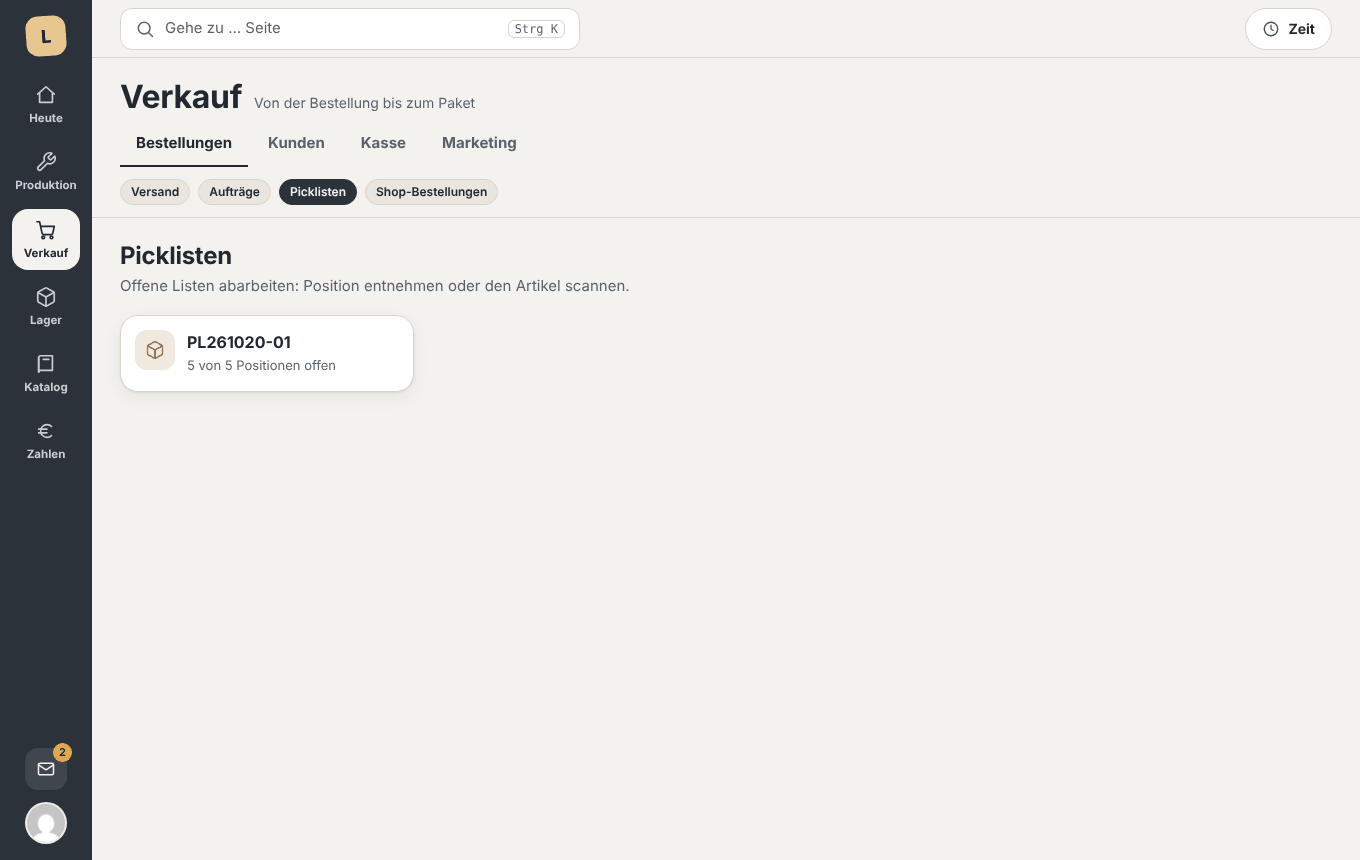
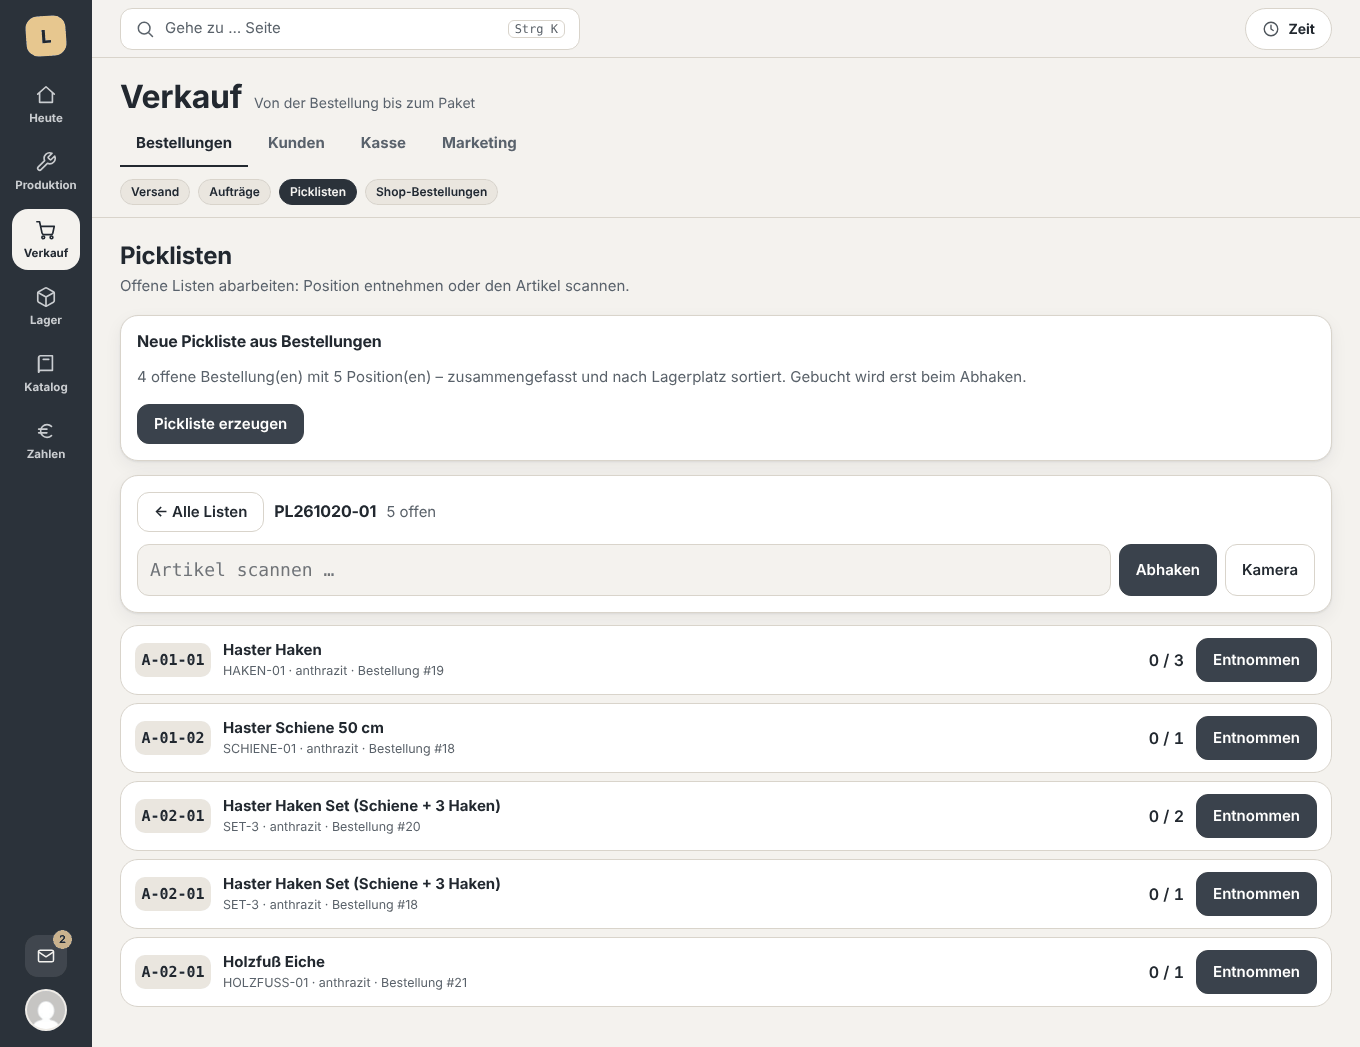
Picklisten im ERP erzeugen (0.31.0)
Die Seite Verkauf → Bestellungen → Picklisten erzeugt eine Pickliste aus den
offenen Bestellungen selbst, mit Vorschau (Bestellungen/Positionen) und
Rückfrage, wenn schon eine offene Liste existiert. Neue REST-Routen
erp/picklisten/bestellungen und erp/picklisten/erzeugen, Recht wie in der
klassischen Ansicht. Betriebsanleitung B.3 und Bilder angepasst.

Claude-Session: https://claude.ai/code/session_01Q6NocSdD6ubUUj1G5gPRYB

diff --git a/docs/betriebsanleitung.html b/docs/betriebsanleitung.html
@@ -13,10 +13,10 @@
 <div class="seite">
 
 <header class="kopf" id="einstieg">
-	<div class="marke">Lindenweg16 ERP · Version 0.30.0</div>
+	<div class="marke">Lindenweg16 ERP · Version 0.31.0</div>
 	<h1>Betriebsanleitung</h1>
 	<p class="unter">Eine Anleitung in vier Teilen – je einer für eine Aufgabe. Lies den Teil, der zu deiner Arbeit passt; die anderen musst du nicht gelesen haben.</p>
-	<div class="meta">Alle Bilder sind echte Bildschirmfotos der Oberfläche unter /erp, aufgenommen in einer Testinstallation mit Beispieldaten (Namen, Zahlen und Adressen sind erfunden). Stand: Plugin-Version 0.30.0.</div>
+	<div class="meta">Alle Bilder sind echte Bildschirmfotos der Oberfläche unter /erp, aufgenommen in einer Testinstallation mit Beispieldaten (Namen, Zahlen und Adressen sind erfunden). Stand: Plugin-Version 0.31.0.</div>
 	<nav class="wegweiser">
 		<a href="#einstieg" class="hier">Einstieg</a>
 		<a href="#teil-produktion">A · Produktion</a>
@@ -1095,7 +1095,7 @@
 <table>
 <thead><tr><th>#</th><th>Schritt</th><th>Wo</th><th>Ergebnis</th></tr></thead>
 <tbody>
-<tr><td>1</td><td>Pickliste erzeugen</td><td>Computer, <em>Lagerplätze &amp; Picklisten</em> (Klassische Ansicht)</td><td>Eine Liste, sortiert nach Lagerplatz</td></tr>
+<tr><td>1</td><td>Pickliste erzeugen</td><td>Computer, <em>Verkauf → Bestellungen → Picklisten</em></td><td>Eine Liste, sortiert nach Lagerplatz</td></tr>
 <tr><td>2</td><td>Picken</td><td>Handy oder Computer, <em>Verkauf → Bestellungen → Picklisten</em></td><td>Ware auf dem Packtisch, Bestand gebucht</td></tr>
 <tr><td>3</td><td>Packen</td><td>Packtisch</td><td>Karton mit Ware und Beipackzettel</td></tr>
 <tr><td>4</td><td>Lieferschein drucken</td><td>Computer, <em>Verkauf → Bestellungen → Versand</em></td><td>PDF, kommt ins Paket</td></tr>
@@ -1121,19 +1121,21 @@
 
 <h2 id="vers-pickliste"><span class="nr">B.3</span> Schritt 1: Pickliste erzeugen</h2>
 
-<p><span class="weg">Lager → Bestand → Lagerplätze &amp; Picklisten → Klassische Ansicht → Reiter „Picklisten“</span></p>
+<p><span class="weg">Verkauf → Bestellungen → Picklisten</span></p>
 
-<div class="kasten info">
-	<span class="titel">Dieser eine Schritt liegt noch in der klassischen Ansicht</span>
-	<p>Das <em>Abarbeiten</em> der Picklisten ist ins ERP umgezogen (Kapitel B.4). Das <em>Erzeugen</em> einer Pickliste aus den offenen Bestellungen geht noch auf der klassischen Seite. Klick dazu auf der Seite <em>Lagerplätze &amp; Picklisten</em> oben rechts auf <strong>Klassische Ansicht</strong>. Sie öffnet sich im WordPress-Verwaltungsbereich. Zurück ins ERP kommst du mit dem Zurück-Knopf des Browsers. Picklisten zu <em>Fertigungsaufträgen</em> entstehen dagegen von allein, wenn du den Auftrag anlegst (Kapitel A.5).</p>
-</div>
+<figure>
+	<img src="bilder/picklisten-erzeugen.png" alt="Die Seite Picklisten mit dem Kasten Neue Pickliste aus Bestellungen, dem Knopf Pickliste erzeugen und einer vorhandenen Liste">
+	<figcaption>Oben der Kasten zum Erzeugen, darunter die offenen Listen.</figcaption>
+</figure>
 
 <ol class="schritte">
-	<li>Öffne die klassische Seite <strong>Lagerplätze &amp; Picklisten</strong> und wähle den Reiter <strong>Picklisten</strong>.</li>
-	<li>Klick oben auf den blauen Knopf <strong>Pickliste aus offenen Bestellungen erzeugen</strong>.</li>
-	<li>Darunter erscheint eine neue Liste mit einem Code wie <code>PL261020-01</code> und dem Status <strong>offen</strong>.</li>
-	<li>Schau die Tabelle kurz an. Sie ist nach der Spalte <strong>Platz</strong> sortiert – das ist deine Laufreihenfolge.</li>
+	<li>Öffne <span class="weg">Verkauf → Bestellungen → Picklisten</span>. Oben steht, wie viele offene Bestellungen und Positionen die neue Liste enthielte.</li>
+	<li>Klick auf <strong>Pickliste erzeugen</strong>. Eine kurze Meldung bestätigt die Liste, und sie öffnet sich sofort.</li>
+	<li>Sie hat einen Code wie <code>PL261020-01</code> und ist nach der Spalte <strong>Platz</strong> sortiert – das ist deine Laufreihenfolge.</li>
+	<li>Der Knopf ist grau, wenn es keine offenen Bestellungen gibt. Ihn sehen nur Personen mit dem Recht, Picklisten zu erzeugen.</li>
 </ol>
+
+<p>Die Liste fasst gleiche Artikel in gleicher Farbe zusammen; die Spalte <em>Bestellung</em> sagt weiter, zu welcher Bestellung eine Zeile gehört.</p>
 
 <div class="tabelle">
 <table>
@@ -1151,7 +1153,7 @@
 
 <div class="kasten achtung">
 	<span class="titel">Erzeug nicht zweimal hintereinander eine Liste</span>
-	<p>Die Liste enthält alle offenen Bestellungen. Wenn du sofort noch einmal auf den Knopf drückst, hast du zwei Listen mit derselben Ware und pickst am Ende doppelt. Eine Liste, ein Durchgang. Erst wenn sie abgearbeitet ist, machst du die nächste.</p>
+	<p>Die Liste enthält alle offenen Bestellungen. Wenn du sofort noch einmal auf den Knopf drückst, hast du zwei Listen mit derselben Ware und pickst am Ende doppelt. Gibt es schon eine offene Liste aus Bestellungen, fragt das ERP vorher nach. Eine Liste, ein Durchgang. Erst wenn sie abgearbeitet ist, machst du die nächste.</p>
 </div>
 
 <h2 id="vers-picken"><span class="nr">B.4</span> Schritt 2: Picken</h2>
@@ -1161,8 +1163,8 @@
 <p>Zum Picken nimmst du am besten das Handy mit ins Lager. Der Computer bleibt am Packtisch stehen. Es geht aber auch am Computer.</p>
 
 <figure>
-	<img src="bilder/picken.png" alt="Die Seite Picklisten mit einer Karte PL261020-01, 5 von 5 Positionen offen">
-	<figcaption>Die Seite <strong>Picklisten</strong> zeigt alle offenen Listen. Tipp oder klick auf eine Liste, um sie zu öffnen. Mehrere Personen können gleichzeitig packen – die Seite frischt sich alle 30 Sekunden auf.</figcaption>
+	<img src="bilder/picken.png" alt="Eine geöffnete Pickliste mit Platz, Artikel, Bestellung, Menge und dem Knopf Entnommen je Position">
+	<figcaption>Die Seite <strong>Picklisten</strong> zeigt alle offenen Listen; hier ist eine geöffnet. Tipp oder klick auf eine Liste, um sie zu öffnen. Mehrere Personen können gleichzeitig packen – die Seite frischt sich alle 30 Sekunden auf.</figcaption>
 </figure>
 
 <h3>Am Handy</h3>
@@ -2891,7 +2893,7 @@
 
 </section>
 
-<p class="fuss">Lindenweg16 ERP · Betriebsanleitung · Stand: Plugin-Version 0.30.0 ·
+<p class="fuss">Lindenweg16 ERP · Betriebsanleitung · Stand: Plugin-Version 0.31.0 ·
 <a href="#einstieg">Einstieg</a> ·
 <a href="#teil-produktion">Produktion</a> ·
 <a href="#teil-versand">Versand</a> ·

diff --git a/assets/erp/erp.js b/assets/erp/erp.js
@@ -1288,6 +1288,8 @@
 			h('h2', null, 'Picklisten'),
 			h('p', { class: 'muted', style: 'margin:4px 0 0' }, 'Offene Listen abarbeiten: Position entnehmen oder den Artikel scannen.'))));
 
+		var make = h('div');
+		el.view.appendChild(make);
 		var box = h('div');
 		el.view.appendChild(box);
 		var open = S.pickOpen || 0;
@@ -1295,6 +1297,32 @@
 		function load() {
 			return api('picklisten', { root: true, cache: true }).then(function (lists) { paint(lists); });
 		}
+
+		// Pickliste aus den offenen Bestellungen: nur für Personen mit dem Recht
+		// (sonst antwortet die Vorschau mit 403 und der Block bleibt weg).
+		function loadMake() {
+			return api('picklisten/bestellungen').then(function (d) {
+				make.textContent = '';
+				var go = h('button', { class: 'btn primary', type: 'button' }, 'Pickliste erzeugen');
+				go.disabled = !d.lines;
+				go.addEventListener('click', function () {
+					if (d.open_lists && !window.confirm('Es gibt schon ' + d.open_lists + ' offene Pickliste(n) aus Bestellungen. Eine neue enthält wieder alle offenen Bestellungen – Positionen können doppelt auf Listen stehen. Trotzdem erzeugen?')) { return; }
+					go.disabled = true;
+					api('picklisten/erzeugen', { method: 'POST', body: {} }).then(function (r) {
+						toast(r.message);
+						S.pickOpen = r.id; open = r.id;
+						return load().then(loadMake);
+					}).catch(function (e) { go.disabled = false; toast(e.message, true); });
+				});
+				make.appendChild(h('div', { class: 'card', style: 'margin-bottom:14px' },
+					h('h3', null, 'Neue Pickliste aus Bestellungen'),
+					h('p', { class: 'muted' }, d.lines
+						? d.orders + ' offene Bestellung(en) mit ' + d.lines + ' Position(en) – zusammengefasst und nach Lagerplatz sortiert. Gebucht wird erst beim Abhaken.'
+						: 'Keine offenen Bestellungen – es gibt nichts zu picken.'),
+					go));
+			}).catch(function () { make.textContent = ''; });
+		}
+		loadMake();
 
 		var current = [];
 
@@ -1319,7 +1347,7 @@
 			box.textContent = '';
 
 			if (!lists.length) {
-				box.appendChild(h('div', { class: 'notice' }, 'Keine offenen Picklisten. Neue entstehen aus Bestellungen und Fertigungsaufträgen.'));
+				box.appendChild(h('div', { class: 'notice' }, 'Keine offenen Picklisten. Oben erzeugst du eine aus den offenen Bestellungen; Fertigungsaufträge legen ihre Liste selbst an.'));
 				return;
 			}
 

diff --git a/assets/erp/pages/lager.js b/assets/erp/pages/lager.js
@@ -504,7 +504,7 @@
 
 		function pickTab() {
 			return h('div', { class: 'card' }, h('h3', null, 'Picklisten'),
-				h('p', null, 'Picklisten arbeitest du unter „Picklisten“ ab: offene Listen ansehen, Positionen entnehmen oder den Artikel scannen. Gebucht wird beim Abhaken.'),
+				h('p', null, 'Unter „Picklisten“ erzeugst du eine Liste aus den offenen Bestellungen und arbeitest offene Listen ab: Positionen entnehmen oder den Artikel scannen. Gebucht wird beim Abhaken.'),
 				ui.findItem('picken') ? h('a', { class: 'btn primary', href: '#/seite/picken' }, 'Zu den Picklisten') : h('p', { class: 'muted' }, 'Dafür fehlt dir das Recht.'));
 		}
 

diff --git a/includes/Erp/Pages/Lager.php b/includes/Erp/Pages/Lager.php
@@ -675,6 +675,10 @@ class Lager {
 		self::route( $ns, '/erp/fertigung/uhr', 'POST', 'fertigung_uhr', $api->needs( $werk ) );
 		self::route( $ns, '/erp/fertigung/fertig', 'POST', 'fertigung_fertig', $api->needs( $werk ) );
 
+		// Picklisten aus offenen Bestellungen.
+		self::route( $ns, '/erp/picklisten/bestellungen', 'GET', 'pickliste_vorschau', $api->needs( $rules['lw16_betrieb_make_picklist'] ) );
+		self::route( $ns, '/erp/picklisten/erzeugen', 'POST', 'pickliste_erzeugen', $api->needs( $rules['lw16_betrieb_make_picklist'] ) );
+
 		// Bedarf.
 		self::route( $ns, '/erp/bedarf', 'GET', 'bedarf', $api->needs( array( 'lager.bedarf' ) ) );
 	}
@@ -1536,6 +1540,79 @@ class Lager {
 						? __( 'Druckauftrag %s angelegt. Gebucht wird er im Druckjournal.', 'lindenweg16' )
 						: __( 'Fertigungsauftrag %s angelegt. Die Materialliste steht am Handy unter „Picken“ bereit.', 'lindenweg16' ),
 					$order['code']
+				),
+			),
+			201
+		);
+	}
+
+	/**
+	 * Was eine Pickliste aus den offenen Bestellungen enthielte.
+	 *
+	 * @return WP_REST_Response
+	 */
+	public static function pickliste_vorschau() {
+		$lines  = \Lindenweg16\Modules\Betrieb\WooIntegration::open_order_lines();
+		$orders = array();
+		$qty    = 0.0;
+
+		foreach ( $lines as $line ) {
+			$orders[ (int) $line['wc_order_id'] ] = true;
+			$qty                                  += (float) $line['qty'];
+		}
+
+		$open = 0;
+		foreach ( \Lindenweg16\Modules\Betrieb\PicklistRepository::all( 'offen' ) as $list ) {
+			if ( 'bestellungen' === $list['source'] ) {
+				++$open;
+			}
+		}
+
+		return new WP_REST_Response(
+			array(
+				'orders'     => count( $orders ),
+				'lines'      => count( $lines ),
+				'qty'        => $qty,
+				'open_lists' => $open,
+			)
+		);
+	}
+
+	/**
+	 * Pickliste aus allen offenen Bestellungen erzeugen.
+	 *
+	 * @return WP_REST_Response
+	 */
+	public static function pickliste_erzeugen() {
+		$repo  = '\Lindenweg16\Modules\Betrieb\PicklistRepository';
+		$lines = \Lindenweg16\Modules\Betrieb\WooIntegration::open_order_lines();
+
+		if ( ! $lines ) {
+			return self::fail( __( 'Keine offenen Bestellungen – es gibt nichts zu picken.', 'lindenweg16' ), 422 );
+		}
+
+		$rows = $repo::condense(
+			$lines,
+			\Lindenweg16\Modules\Betrieb\BinRepository::article_hints(),
+			\Lindenweg16\Modules\Betrieb\BinRepository::component_hints()
+		);
+		$id   = $repo::create( $rows );
+
+		if ( ! $id ) {
+			return self::fail( __( 'Die Pickliste konnte nicht angelegt werden. Bitte noch einmal versuchen.', 'lindenweg16' ), 500 );
+		}
+
+		$list = $repo::find( $id );
+
+		return new WP_REST_Response(
+			array(
+				'ok'      => true,
+				'id'      => (int) $id,
+				'code'    => $list ? (string) $list['code'] : '',
+				'message' => sprintf(
+					/* translators: %d: Anzahl Positionen. */
+					__( 'Pickliste mit %d Positionen angelegt. Sie steht jetzt unter „Picklisten“ bereit.', 'lindenweg16' ),
+					count( $rows )
 				),
 			),
 			201

diff --git a/tests/PicklisteErzeugenTest.php b/tests/PicklisteErzeugenTest.php
@@ -1,0 +1,40 @@
+<?php
+/**
+ * Das ERP erzeugt Picklisten aus offenen Bestellungen selbst.
+ *
+ * Vorher ging das nur über den Knopf der Klassischen Ansicht; die native Seite
+ * „Picklisten“ konnte Listen nur abarbeiten.
+ *
+ * @package Lindenweg16
+ */
+
+use PHPUnit\Framework\TestCase;
+
+/**
+ * Verdrahtung von Route, Recht und Oberfläche.
+ */
+class PicklisteErzeugenTest extends TestCase {
+
+	/**
+	 * Beide Routen hängen am Recht der klassischen Aktion.
+	 */
+	public function test_routen_nutzen_das_recht_der_klassischen_aktion() {
+		$php = (string) file_get_contents( dirname( __DIR__ ) . '/includes/Erp/Pages/Lager.php' );
+
+		$this->assertStringContainsString( "'/erp/picklisten/erzeugen', 'POST', 'pickliste_erzeugen', \$api->needs( \$rules['lw16_betrieb_make_picklist'] )", $php );
+		$this->assertStringContainsString( "'/erp/picklisten/bestellungen', 'GET', 'pickliste_vorschau', \$api->needs( \$rules['lw16_betrieb_make_picklist'] )", $php );
+		$this->assertTrue( method_exists( \Lindenweg16\Erp\Pages\Lager::class, 'pickliste_erzeugen' ) );
+		$this->assertTrue( method_exists( \Lindenweg16\Erp\Pages\Lager::class, 'pickliste_vorschau' ) );
+	}
+
+	/**
+	 * Die Seite bietet den Knopf an und fragt bei einer offenen Liste nach.
+	 */
+	public function test_seite_bietet_knopf_und_rueckfrage() {
+		$js = (string) file_get_contents( dirname( __DIR__ ) . '/assets/erp/erp.js' );
+
+		$this->assertStringContainsString( "api('picklisten/erzeugen'", $js );
+		$this->assertStringContainsString( 'open_lists', $js );
+		$this->assertStringContainsString( 'window.confirm', $js );
+	}
+}

diff --git a/lindenweg16.php b/lindenweg16.php
@@ -3,7 +3,7 @@
  * Plugin Name:       Lindenweg16 ERP
  * Plugin URI:        https://lindenweg16.de
  * Description:       Gesamtplugin für lindenweg16.de: Buchhaltung, Lagerverwaltung, Loyalty, Produktions- und Bestellplanung, Preiskalkulation, Kundenbindung, Support & Reporting – vollständig in WooCommerce integriert.
- * Version:           0.30.0
+ * Version:           0.31.0
  * Requires at least: 6.2
  * Requires PHP:      7.4
  * Author:            Lindenweg16
@@ -17,7 +17,7 @@
 
 defined( 'ABSPATH' ) || exit;
 
-define( 'LW16_VERSION', '0.30.0' );
+define( 'LW16_VERSION', '0.31.0' );
 define( 'LW16_PLUGIN_FILE', __FILE__ );
 define( 'LW16_PLUGIN_DIR', plugin_dir_path( __FILE__ ) );
 define( 'LW16_PLUGIN_URL', plugin_dir_url( __FILE__ ) );

diff --git a/CHANGELOG.md b/CHANGELOG.md
@@ -7,6 +7,16 @@ steht in `lindenweg16.php` (`Version` und `LW16_VERSION`).
 Frühere Versionen sind hier nicht nachgetragen; der Stand davor steht in der Git-Historie
 und im Abschnitt „Umsetzungsstand“ der README.
 
+## [0.31.0] – 2026-10-21
+
+### Picklisten im ERP erzeugen
+- **Verkauf → Bestellungen → Picklisten:** Der neue Kasten *Neue Pickliste aus Bestellungen* zeigt, wie viele offene
+  Bestellungen und Positionen die Liste enthielte, und erzeugt sie mit einem Klick (vorher nur in der Klassischen
+  Ansicht). Gibt es schon eine offene Liste aus Bestellungen, fragt das ERP vor dem Erzeugen nach. Die neue Liste
+  öffnet sich sofort. Der Kasten erscheint nur mit dem Recht „Picklisten erzeugen“ (`lw16_betrieb_make_picklist`).
+- Neue REST-Routen `erp/picklisten/bestellungen` (Vorschau) und `erp/picklisten/erzeugen`.
+- Betriebsanleitung B.3 beschreibt den neuen Weg.
+
 ## [0.30.0] – 2026-10-20
 
 ### Betriebsanleitung neu, vier Fehler behoben
